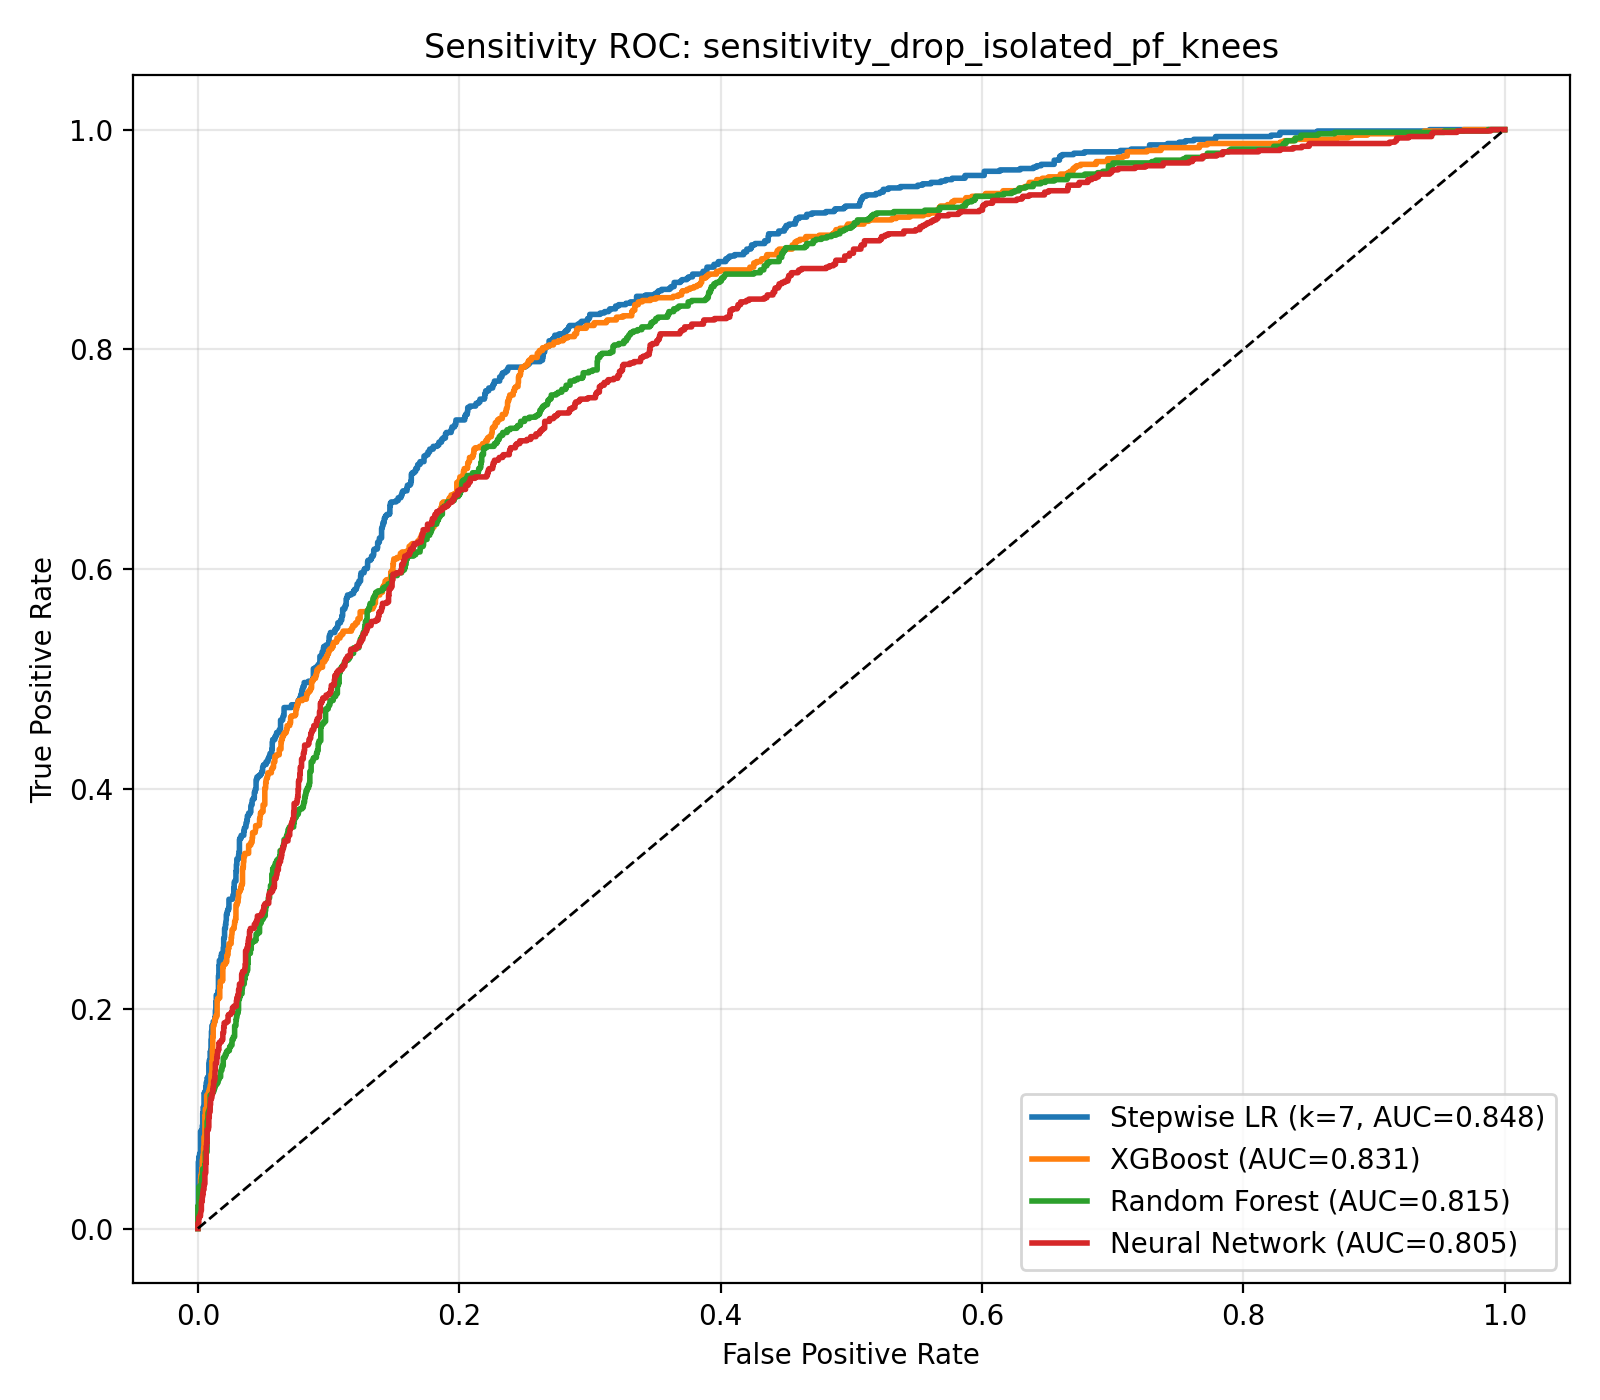
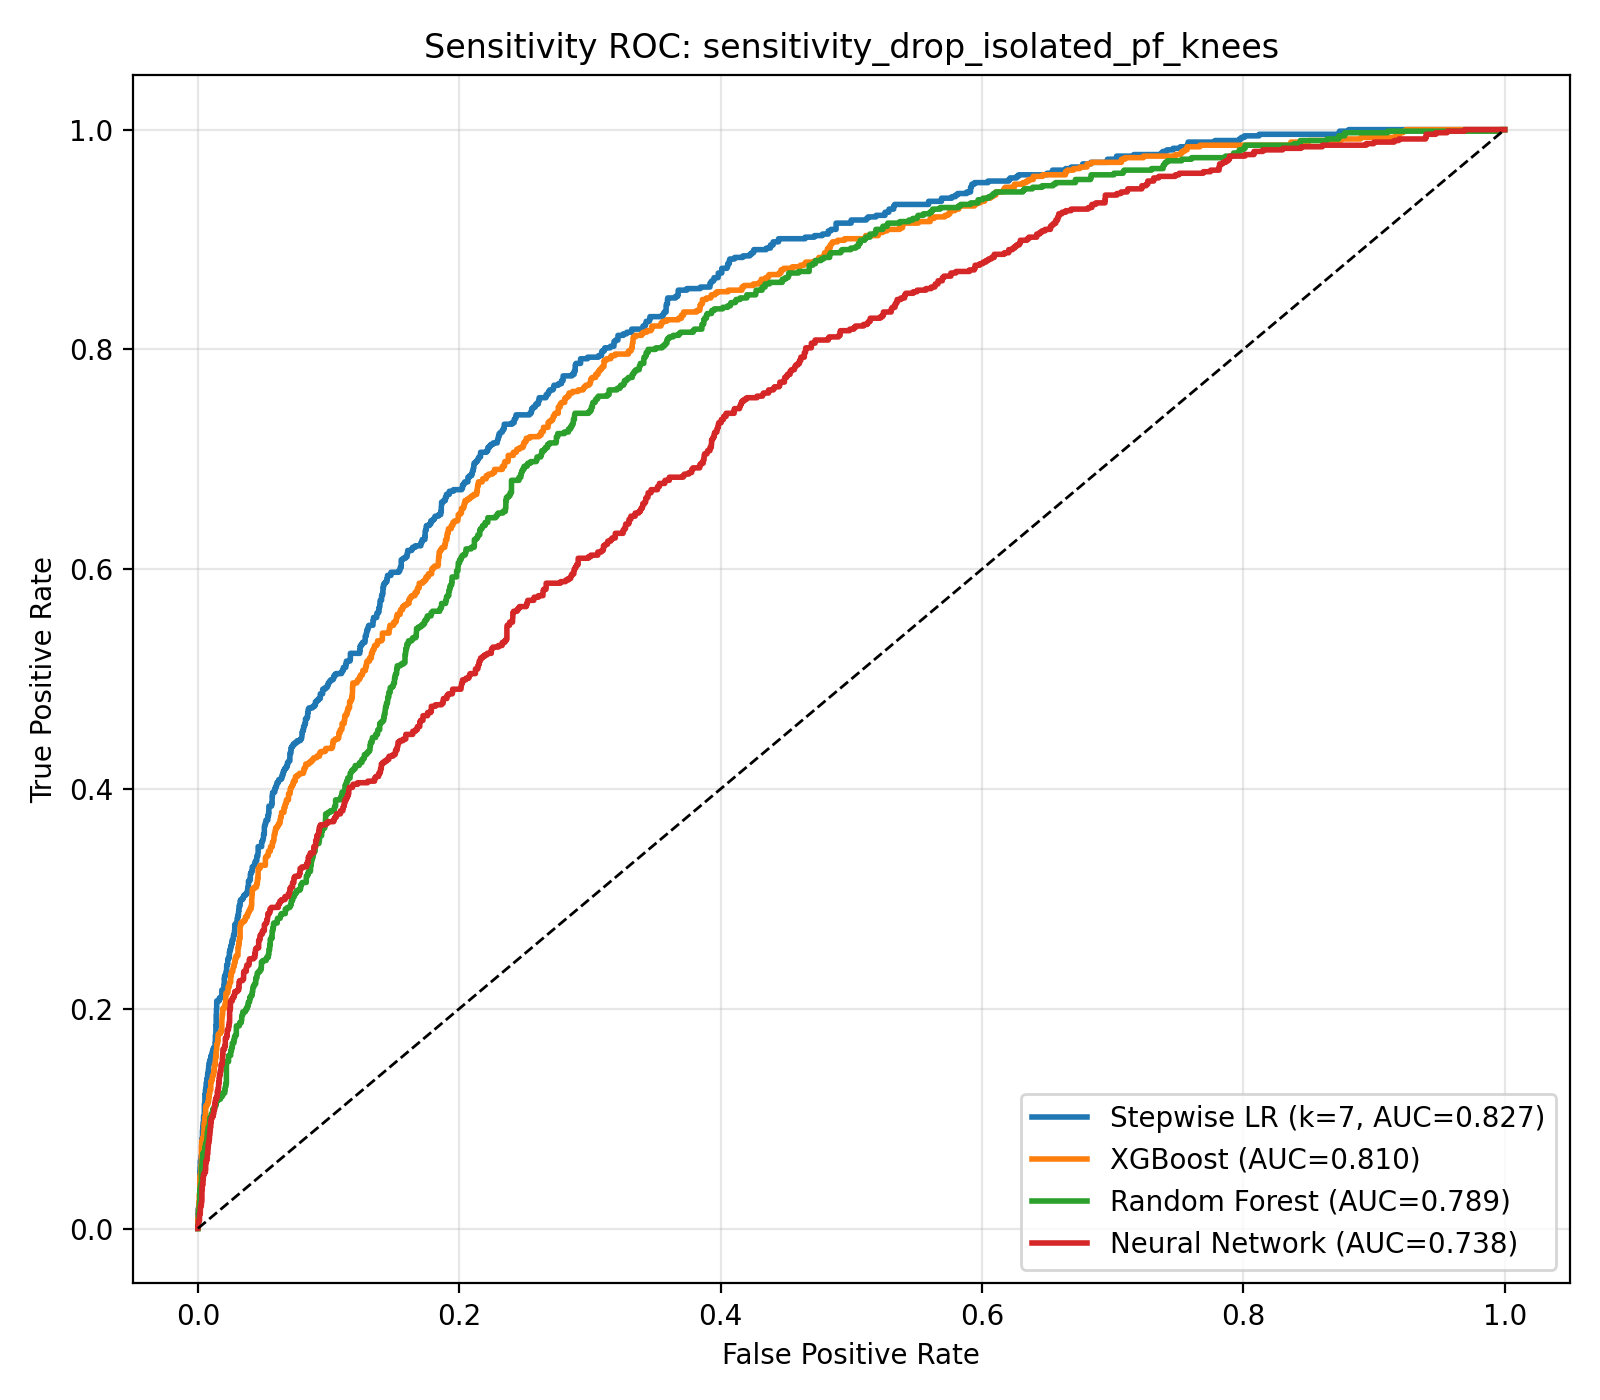
Fix isolated-PF ablation for the revised KL-grade outcome; rerun
drop_isolated_pf_knees used oapf==1, which was the binary PF-OA flag. Under the
revised outcome 'oapf' holds the PF KL grade (0-4), so oapf==1 means "PF KL
grade 1" (a negative knee), not "PF-positive". Redefined an isolated-PF knee as
oa_knee==1 with tibiofemoral kl<2 -- coding-agnostic (works for both the KL-grade
and legacy binary PF signals). Reran scripts/08.

Result (Screening LR): canonical 0.815 -> 0.827 (drop isolated-PF knees) /
0.827 (drop isolated-PF participants) / 0.824 (TF-only outcome) -- the LR
advantage over ML holds under every PF ablation.

diff --git a/src/koa_screening/sensitivity.py b/src/koa_screening/sensitivity.py
@@ -70,27 +70,27 @@ def _summarise(df: pd.DataFrame, filtered: pd.DataFrame, name: str, description:
 
 
 def drop_isolated_pf_knees(df: pd.DataFrame) -> SensitivityResult:
-    """Drop knee-rows where structural OA is driven *only* by patellofemoral
-    involvement (``oapf==1`` and ``kl<2``). The contralateral knee, if any,
-    is unaffected. This is the most common operationalisation in the
-    literature.
+    """Drop knee-rows that are OA-positive *only* through the patellofemoral
+    compartment — i.e. ``oa_knee==1`` with tibiofemoral ``kl<2``. The
+    contralateral knee, if any, is unaffected. This is the most common
+    operationalisation in the literature.
 
-    Note that the outcome formula is unchanged; for the surviving rows it
-    collapses to ``oa_knee == (kl>=2)`` because no row has both
-    ``oapf==1`` and ``kl<2`` anymore.
+    Defining "isolated PF" via ``oa_knee`` (rather than the PF column directly)
+    is robust to how the PF signal is coded: it works whether ``oapf`` is the
+    revised PF KL grade (positive = KL>=2) or the legacy binary PF-OA flag.
+    For the surviving rows the outcome collapses to ``oa_knee == (kl>=2)``.
     """
-    if "kl" not in df.columns or "oapf" not in df.columns:
-        raise ValueError("df must contain 'kl' and 'oapf' columns")
+    if "kl" not in df.columns or "oa_knee" not in df.columns:
+        raise ValueError("df must contain 'kl' and 'oa_knee' columns")
 
     kl = pd.to_numeric(df["kl"], errors="coerce")
-    oapf = pd.to_numeric(df["oapf"], errors="coerce")
-    isolated = (oapf == 1) & (kl.fillna(0) < 2)
+    isolated = (df["oa_knee"] == 1) & (kl.fillna(0) < 2)
     filtered = df.loc[~isolated].copy()
     return _summarise(
         df,
         filtered,
         name="drop_isolated_pf_knees",
-        description="Drop knee-rows with oapf==1 and kl<2 (knee-level isolated-PF exclusion).",
+        description="Drop knee-rows positive only via PF (oa_knee==1 and TF kl<2).",
     )
 
 